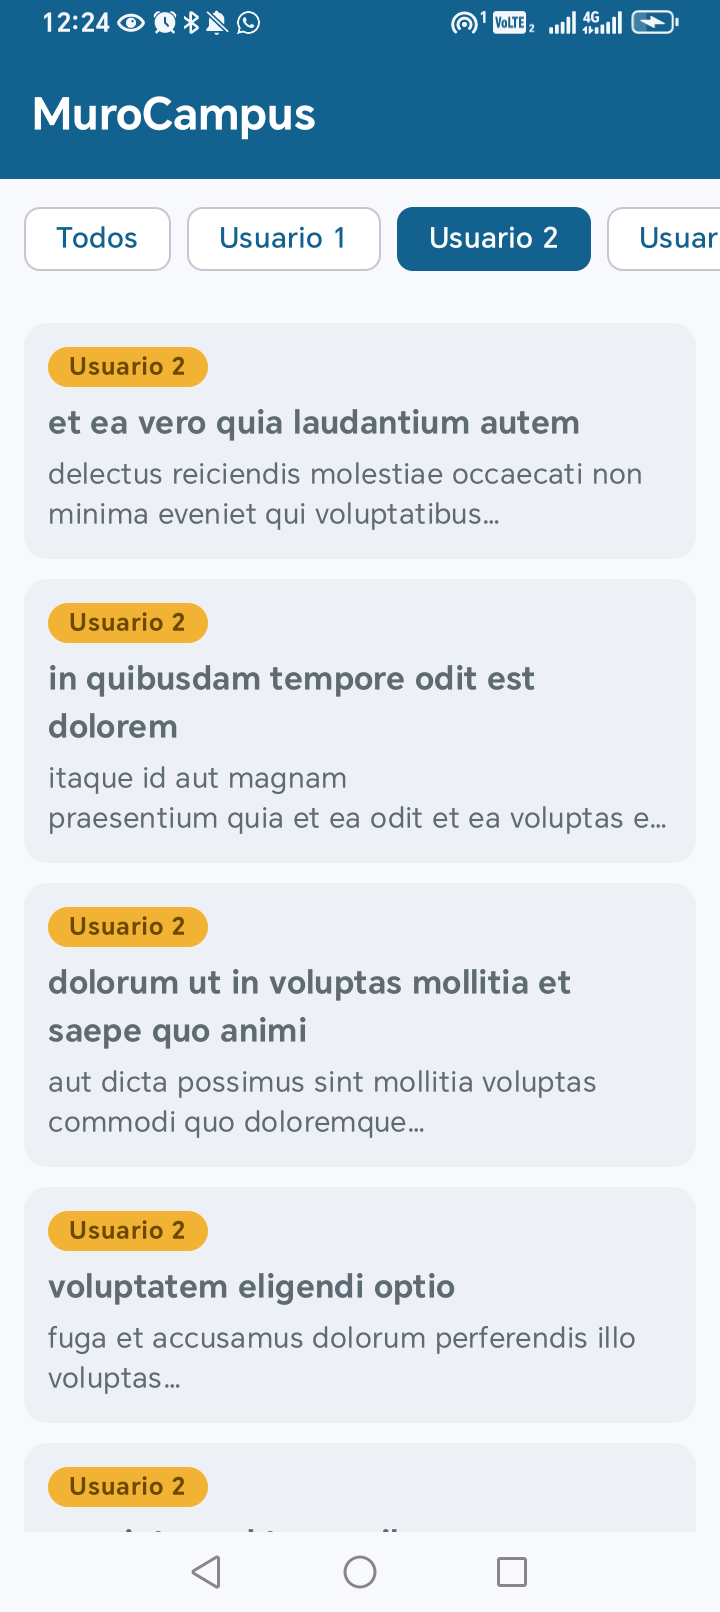
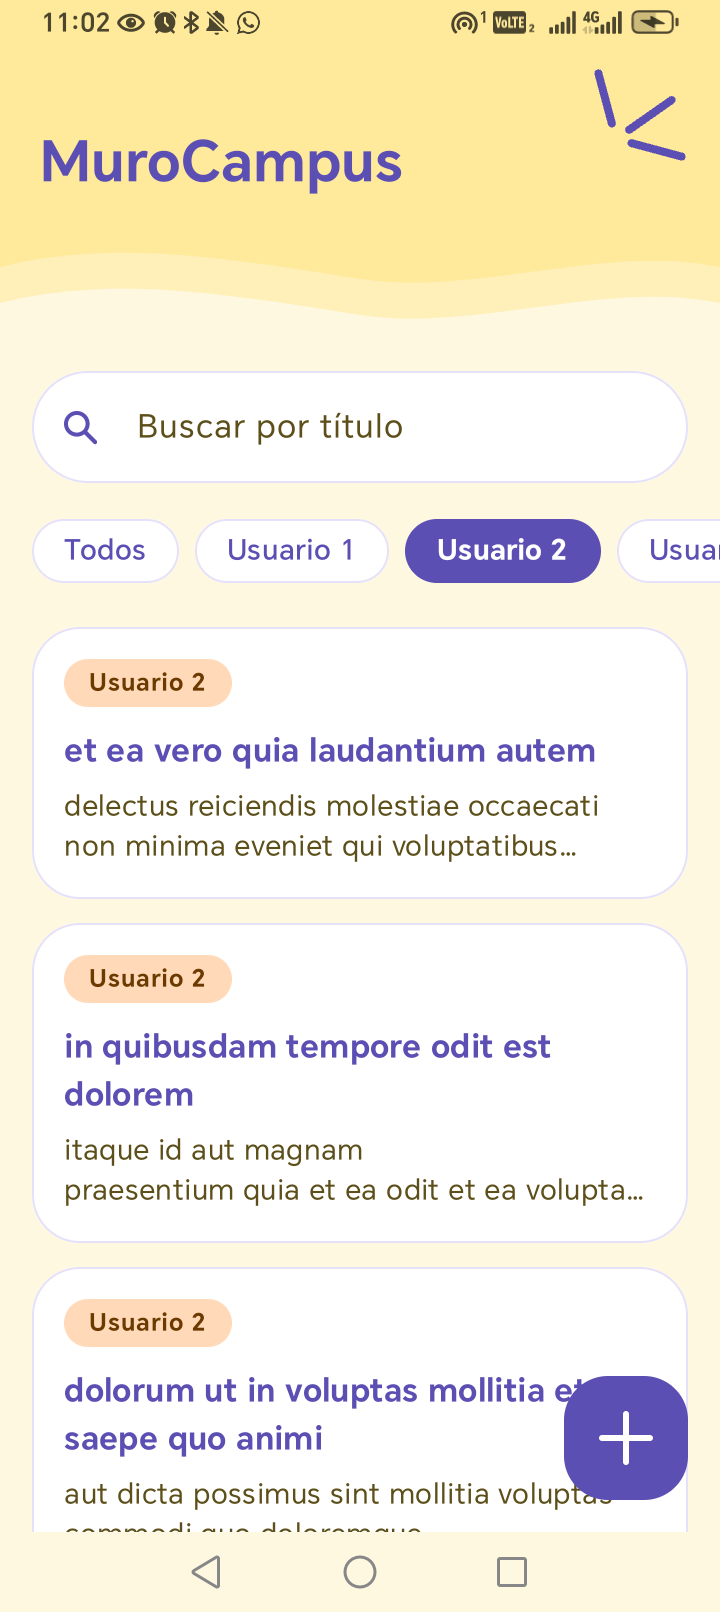
docs: actualiza README con las mejoras de la Fase 2
- Cabecera y descripción de la rama con-ia: agrega borrar, búsqueda y encabezado Accept a las funcionalidades.
- Nueva sección Mejoras de la Fase 2 con tabla de mejora, capas que cambian y commit, más el detalle de cada una.
- Explica el borrado con @DELETE y Response<Unit>, la revisión de isSuccessful en el Repository, el filterNot en memoria y el diálogo de confirmación.
- Explica la búsqueda con busqueda, listaVisible y combine, el filtro por título sin volver a llamar a la API y el contador de coincidencias.
- Explica el EncabezadoInterceptor, su registro antes del HttpLoggingInterceptor y que solo cambia RetrofitClient.
- Actualiza la estructura de paquetes con MuroCampusApp, EncabezadoInterceptor, theme/Shape y PROMPTS.md.
- Actualiza el diagrama MVVM + Repository con los eventos buscar y eliminar y con listaVisible como combinación de lista y búsqueda.
- Separa las pruebas del dispositivo en Fase 2 (búsqueda, borrado, error sin conexión, interceptor) y Fase 1.
- Agrega tres preguntas nuevas de Para pensar de la Fase 2 y conserva las seis de la Fase 1.
- Reemplaza las capturas 01 a 05 por la interfaz rediseñada y agrega 06-buscar, 07-eliminar y 08-error-eliminar.
- Solo documentación: no cambia código de la app.

diff --git a/Semana09/MuroCampus/README.md b/Semana09/MuroCampus/README.md
@@ -1,24 +1,78 @@
-# MuroCampus
+# MuroCampus — Fase 2
 
 **Nombre:** Noemi De la Cruz
 **Curso:** Programación en Móviles — Semana 09
-**Rama de trabajo:** `sin-ia` (Fase 1, sin IA)
+**Rama de trabajo:** `con-ia` (Fase 2, con IA) 
 **Paquete:** `com.delacruz.murocampus`
 
 ## Descripción
 
 MuroCampus es una aplicación Android hecha con Jetpack Compose que consume la API REST de
-[JSONPlaceholder](https://jsonplaceholder.typicode.com/). Muestra un muro de publicaciones,
-permite abrir el detalle con sus comentarios, filtrar por usuario y crear una publicación nueva.
-También muestra estados claros de **Cargando**, **Éxito** y **Error** cuando no hay internet.
+[JSONPlaceholder](https://jsonplaceholder.typicode.com/). Muestra un muro de publicaciones, permite
+abrir el detalle con sus comentarios, filtrar por usuario, crear una publicación nueva y, a partir de
+la Fase 2, **borrar** una publicación y **buscar** por título. Todas las peticiones llevan el
+encabezado `Accept: application/json` gracias a un interceptor de OkHttp.
 
 Funcionalidades:
 
-- Lista de las 100 publicaciones (`GET posts`), con etiqueta de usuario, título y resumen a dos líneas.
+- Lista de las 100 publicaciones (`GET posts`) con etiqueta de usuario, título y resumen a dos líneas.
 - Detalle de una publicación con sus 5 comentarios (`GET posts/{id}` y `GET posts/{id}/comments`).
 - Filtro por usuario con chips: Todos y Usuario 1 a Usuario 10 (`GET posts?userId=N`).
 - Crear publicación (`POST posts` con `@Body`) y mensaje con el id devuelto por el servidor.
-- Manejo de errores de red con mensaje y botón **Reintentar**.
+- **Eliminar publicación** desde el detalle (`DELETE posts/{id}`), con diálogo de confirmación.
+- **Buscador** que filtra por título las publicaciones ya descargadas, sin volver a llamar a la API.
+- **Encabezado `Accept: application/json`** en todas las peticiones mediante un interceptor de OkHttp.
+- Estados claros de **Cargando**, **Éxito** y **Error** con botón **Reintentar**, también en el borrado.
+
+## Mejoras de la Fase 2
+
+| # | Mejora | Qué hace | Capas que cambian | Commit |
+|---|---|---|---|---|
+| 1 | Borrar publicación | `@DELETE("posts/{id}")` con `Response<Unit>` y revisión del código HTTP | API + Repository + ViewModel + View | `5ec8d61` |
+| 2 | Búsqueda | Campo que filtra por título lo ya descargado | ViewModel + View | `affb931` |
+| 3 | Encabezado con interceptor | `Accept: application/json` en todas las peticiones | RetrofitClient | `9b80293` |
+
+Además, aparte de las mejoras, la rama incluye el rediseño visual (`420874b`): cabecera de olas,
+paleta morada y amarilla, tarjetas de 24 dp e íconos dibujados con `Canvas`. No cuenta como una de las
+mejoras de la tabla, pero cambia la presentación de todas las pantallas.
+
+### 1. Borrar publicación
+
+- `PostApi.kt`: `@DELETE("posts/{id}") suspend fun eliminar(@Path("id") id: Int): Response<Unit>`.
+  Devuelve la respuesta completa para poder revisar el código.
+- `PostRepository.kt`: `eliminar(id): Result<Unit>` en la interface. `PostRepositoryRemote` comprueba
+  `respuesta.isSuccessful` y, si el servidor contesta algo distinto de 2xx, lanza `HttpException` para
+  que el fallo llegue al ViewModel como `Result.failure`.
+- `PostsViewModel.kt`: `eliminacion: StateFlow<UiState<Unit>?>` y `eliminar(id)`. Al confirmar el
+  servidor, quita la publicación de `_lista` con `filterNot` y deja el estado en `Exito`.
+- `PantallaDetalle.kt`: botón **Eliminar** con borde rojo, `AlertDialog` de confirmación que indica el
+  `DELETE` de esa publicación, indicador de progreso mientras borra y recuadro rosa con el mensaje de
+  error. La pantalla solo envía `onEliminar(id)`.
+- `MuroCampusApp.kt`: con `LaunchedEffect` vuelve al muro cuando la eliminación termina en `Exito` y
+  limpia el estado al abrir o cerrar el detalle.
+- **Limitación:** JSONPlaceholder responde 200 pero no guarda el borrado, por eso la publicación sale
+  solo de la lista en memoria hasta que se recarga el muro.
+
+### 2. Búsqueda
+
+- `PostsViewModel.kt`: `busqueda: StateFlow<String>` con `buscar(texto)` y una lista derivada
+  `listaVisible = combine(_lista, _busqueda) { estado, texto -> estado.conBusqueda(texto) }.stateIn(...)`.
+- El filtro es una extensión privada sobre `UiState<List<Post>>`: si el estado es `Exito` y el texto no
+  está vacío, se queda con las publicaciones cuyo `title` contiene el texto con `ignoreCase = true`.
+  Se aplica sobre lo ya descargado, sin una llamada nueva a la API y combinándose con el chip de usuario.
+- `PantallaLista.kt`: campo de búsqueda tipo píldora debajo de la cabecera, con lupa, aspa para vaciar y
+  acción *Search* en el teclado. Mientras hay texto muestra **N coincidencias** y, si no hay ninguna,
+  el aviso *Sin resultados para “texto”*. `imePadding` evita que el teclado tape los resultados.
+- El texto vive en el ViewModel, así que se conserva al abrir un detalle y volver.
+
+### 3. Encabezado con interceptor
+
+- `data/remote/EncabezadoInterceptor.kt`: implementa `okhttp3.Interceptor` y copia la petición con
+  `header("Accept", "application/json")`, que reemplaza el encabezado si ya existía en vez de duplicarlo.
+- `RetrofitClient.kt`: se registra **antes** del `HttpLoggingInterceptor`, así el encabezado aparece en el
+  registro de OkHttp de Logcat y viaja en todas las llamadas de `PostApi`.
+- No cambia ninguna firma: `PostApi`, `PostRepository`, ViewModel y pantallas quedan igual. Es la mejora
+  de la tabla que toca una sola capa.
 
 ## Tecnologías
 
@@ -26,51 +80,57 @@ Funcionalidades:
 |---|---|
 | Kotlin + Jetpack Compose (Material 3) | Interfaz de usuario |
 | MVVM + Repository | Arquitectura y separación de capas |
-| Retrofit 2.11.0 | Llamadas HTTP con anotaciones `@GET`, `@POST`, `@Path`, `@Query` y `@Body` |
-| OkHttp 4.12.0 + Logging Interceptor | Conexión y registro del tráfico en Logcat |
+| Retrofit 2.11.0 | `@GET`, `@POST`, `@DELETE`, `@Path`, `@Query` y `@Body` |
+| OkHttp 4.12.0 | Conexión, registro en Logcat e **interceptor** del encabezado `Accept` |
 | kotlinx.serialization | Conversión del JSON a `data class` |
-| Corrutinas, `StateFlow` y `Result` | Trabajo asíncrono y manejo de errores |
+| Corrutinas, `StateFlow`, `combine` y `Result` | Trabajo asíncrono, estados y búsqueda |
+
+Sin dependencias nuevas: los íconos y la cabecera se dibujan con `Canvas` y el interceptor usa el
+OkHttp que ya estaba en el proyecto.
 
 ## Estructura de paquetes
 
 ```
 com.delacruz.murocampus/
-├── MainActivity.kt              Contenedor: barra MuroCampus y navegación lista/detalle/crear
+├── MainActivity.kt                  Repository + ViewModel + setContent
 ├── model/
-│   └── Modelos.kt               Post, Comentario, NuevoPost y Usuario
+│   └── Modelos.kt                   Post, Comentario, NuevoPost y Usuario
 ├── data/
-│   ├── PostRepository.kt        Interface + PostRepositoryRemote (devuelve Result)
+│   ├── PostRepository.kt            Interface + PostRepositoryRemote (Result; revisa el DELETE)
 │   └── remote/
-│       ├── PostApi.kt           Interface de Retrofit
-│       └── RetrofitClient.kt    Retrofit + OkHttp + conversor JSON
+│       ├── PostApi.kt               Interface de Retrofit (@GET, @POST, @DELETE)
+│       ├── EncabezadoInterceptor.kt Accept: application/json en todas las peticiones
+│       └── RetrofitClient.kt        Retrofit + OkHttp + interceptor + conversor JSON
 ├── viewmodel/
-│   ├── PostsViewModel.kt        Estado de lista, detalle, filtro y creación
-│   ├── PostsViewModelFactory.kt Crea el ViewModel con el Repository
-│   └── UiState.kt               Cargando / Éxito / Error y mensajeDe()
+│   ├── PostsViewModel.kt            Lista, búsqueda, detalle, creación y eliminación
+│   ├── PostsViewModelFactory.kt     Crea el ViewModel con el Repository
+│   └── UiState.kt                   Cargando / Éxito / Error y mensajeDe()
 └── ui/
-    ├── Componentes.kt           TarjetaPost, Cargando y ErrorConReintento
-    ├── PantallaLista.kt         Chips de filtro y LazyColumn de publicaciones
-    ├── PantallaDetalle.kt       Publicación completa y comentarios
-    ├── PantallaCrear.kt         Formulario de creación
-    └── theme/                   Colores, tema y tipografía
+    ├── MuroCampusApp.kt             Scaffold, navegación, botón + y BackHandler
+    ├── Componentes.kt               CabeceraMuro, tarjetas, estados e íconos Canvas
+    ├── PantallaLista.kt             Buscador, chips y LazyColumn
+    ├── PantallaDetalle.kt           Publicación, Eliminar y comentarios
+    ├── PantallaCrear.kt             Formulario de creación
+    └── theme/                       Color.kt, Shape.kt, Type.kt y Theme.kt
 ```
 
 ## Arquitectura MVVM + Repository
 
 ```
 View (PantallaLista, PantallaDetalle, PantallaCrear)
-  |  eventos: cargar, filtrar, abrir, publicar
+  |  eventos: cargar, filtrar, buscar, abrir, crear, eliminar
   v
 ViewModel (PostsViewModel)  --->  StateFlow<UiState> (Cargando / Éxito / Error)
+  |                             listaVisible = combine(lista, busqueda)
   |  viewModelScope.launch
   v
 PostRepository (interface)  <--- devuelve Result<...>
   |
   v
-PostRepositoryRemote  (captura IOException, HttpException, SerializationException)
+PostRepositoryRemote  (revisa el código del DELETE y captura IOException, HttpException, SerializationException)
   |
   v
-PostApi (Retrofit) --- OkHttp ---> https://jsonplaceholder.typicode.com/
+PostApi (Retrofit) --- OkHttp + EncabezadoInterceptor ---> https://jsonplaceholder.typicode.com/
 ```
 
 Reglas respetadas:
@@ -78,23 +138,40 @@ Reglas respetadas:
 - La pantalla nunca llama a Retrofit: solo recibe el estado y envía eventos al ViewModel.
 - El ViewModel no conoce Retrofit, `PostApi`, `HttpException` ni `Context`.
 - El Repository nunca deja escapar una excepción: devuelve `Result.success` o `Result.failure`.
+- El filtrado de la búsqueda y la lista que se muestra se calculan en el ViewModel, no en el Composable.
 - La cancelación de la corrutina se relanza con `catch (e: CancellationException) { throw e }`.
 
-## Capturas
+# Capturas
 
-| Lista | Detalle |
+| Lista con buscador | Detalle con Eliminar | Filtro por usuario |
+|---|---|---|
+| ![Lista de publicaciones](docs/capturas/01-lista.png) | ![Detalle con comentarios](docs/capturas/02-detalle.png) | ![Filtro Usuario 2](docs/capturas/03-filtro.png) |
+
+| Crear publicación | Sin conexión | Búsqueda |
+|---|---|---|
+| ![Formulario de creación](docs/capturas/04-crear.png) | ![Error de conexión con Reintentar](docs/capturas/05-error.png) | ![Buscar odio: 6 coincidencias](docs/capturas/06-buscar.png) |
+
+| Confirmación de borrado | Error al eliminar | |
+|---|---|---|
+| ![Diálogo Eliminar publicación](docs/capturas/07-eliminar.png) | ![Aviso sin conexión al borrar](docs/capturas/08-error-eliminar.png) | |
+
+## Pruebas realizadas
+
+Fase 2:
+
+| Prueba | Resultado |
 |---|---|
-| ![Lista de publicaciones](docs/capturas/01-lista.png) | ![Detalle con comentarios](docs/capturas/02-detalle.png) |
+| Buscar `odio` con Todos | 6 coincidencias (5, 16, 54, 68, 77 y 83) |
+| Buscar `odio` con Usuario 1 | 1 coincidencia |
+| Buscar `zzz` | Aviso *Sin resultados para “zzz”* |
+| Tocar la X del buscador | Vuelve a las 100 publicaciones y desaparece el contador |
+| Abrir un resultado y volver | El texto y los resultados se conservan |
+| Eliminar y confirmar | Vuelve al muro y la publicación desaparece de la lista |
+| Eliminar en modo avión | Se queda en el detalle con *Sin conexión a internet* |
+| Reintentar el borrado con red | Borra y vuelve al muro |
+| Interceptor activo | Carga lista, detalle, comentarios y creación sin errores |
 
-| Filtro por usuario | Crear publicación |
-|---|---|
-| ![Filtro Usuario 2](docs/capturas/03-filtro.png) | ![Publicado con id 101](docs/capturas/04-crear.png) |
-
-| Sin conexión |
-|---|
-| ![Error de conexión con Reintentar](docs/capturas/05-error.png) |
-
-## Pruebas realizadas en el dispositivo
+Fase 1 (siguen funcionando):
 
 | Prueba | Resultado |
 |---|---|
@@ -103,15 +180,33 @@ Reglas respetadas:
 | Desactivar modo avión y pulsar Reintentar | Vuelve a cargar la lista |
 | Abrir una publicación | Detalle completo con 5 comentarios |
 | Botón Atrás desde el detalle | Vuelve a la lista sin recargarla |
-| Modo avión en el detalle | Error con Reintentar; al reintentar carga el detalle |
-| Elegir Usuario 2 | Solo publicaciones del usuario 2 |
-| Elegir Todos | Vuelven las 100 publicaciones |
-| Pedir una publicación inexistente | Error del servidor (404) con Reintentar |
 | Rotar la pantalla | Conserva el estado, no descarga de cero |
 | Campos vacíos en Crear | El botón Publicar está deshabilitado |
 | Publicar | Mensaje Publicado con id 101 y formulario limpio |
 
-## Para pensar
+## Para pensar (Fase 2)
+
+**1. ¿Por qué la revisión del código HTTP del `DELETE` va en el Repository y no en el ViewModel?**
+
+Porque el ViewModel solo debe decidir estados, no conocer el protocolo. `PostRepositoryRemote` recibe
+`Response<Unit>` de Retrofit, revisa `isSuccessful` y convierte un 4xx o 5xx en `Result.failure`, igual
+que hace con cualquier `IOException`. Así el ViewModel sigue viendo solo `Result<Unit>` y no aparece
+`HttpException` fuera de la capa de datos.
+
+**2. ¿Por qué el texto del buscador y el filtrado viven en el ViewModel?**
+
+Porque filtrar es lógica, no dibujo. Con `combine` + `stateIn` la pantalla recibe la lista ya filtrada y
+solo la dibuja; el texto sobrevive a la rotación y a entrar al detalle y volver, y el filtro se combina
+solo con el chip de usuario. Si el filtrado estuviera en el Composable con `remember`, se perdería al
+salir de la pantalla y habría lógica de negocio en la vista.
+
+**3. ¿Por qué un interceptor en lugar de escribir el encabezado en cada método de `PostApi`?**
+
+Porque el encabezado debe ser igual en todas las peticiones y un interceptor lo agrega en un solo lugar,
+sin repetirlo en cinco métodos ni olvidarlo cuando se agregue uno nuevo. Además se registra en el
+`RetrofitClient`, que es la única capa que la tabla de la Fase 2 pide cambiar.
+
+## Para pensar (Fase 1)
 
 **1. ¿Qué diferencia hay entre GET y POST? ¿Por qué crear lleva `@Body` y porUsuario lleva `@Query`?**
 
@@ -132,34 +227,36 @@ camino de la URL base y la petición quedaría mal formada. Con `"posts"` el res
 
 Porque así ninguna excepción de red atraviesa las capas. El Repository captura `IOException`,
 `HttpException`, `SerializationException`, etc. y las convierte en `Result.failure`. El ViewModel
-decide el `UiState` sin conocer Retrofit y la app no se cierra. Además permite cambiar la fuente de
-datos (por ejemplo una base de datos local) sin tocar el ViewModel ni la pantalla.
+decide el `UiState` sin conocer Retrofit y la app no se cierra.
 
-**4. ¿Qué pasa si olvidas el permiso INTERNET? ¿Y si olvidas `ignoreUnknownKeys` y el servidor agrega un campo nuevo?**
+**4. ¿Qué pasa si olvidas el permiso INTERNET? ¿Y si olvidas `ignoreUnknownKeys`?**
 
 Sin el permiso `INTERNET` la app compila, pero OkHttp no puede abrir conexiones: la llamada falla y se
 ve el mensaje de error de red aunque el teléfono tenga internet. Sin `ignoreUnknownKeys`, cuando el
 servidor agrega un campo que no existe en la `data class`, kotlinx.serialization lanza
-`SerializationException` y la pantalla muestra "Respuesta inesperada". Con `ignoreUnknownKeys = true`
-los campos desconocidos se ignoran y la app sigue funcionando.
+`SerializationException` y la pantalla muestra "Respuesta inesperada".
 
 **5. ¿Por qué la pantalla de lista usa un `when` sobre `UiState` y no un `if` con tres variables?**
 
 Porque `UiState` es una interface sellada: el compilador obliga a cubrir los tres casos y no permite
-estados imposibles, como estar cargando y con error al mismo tiempo. Con tres booleanos sí se pueden
-dar combinaciones inválidas y hay que revisarlas a mano. Además el estado vive en el ViewModel, así
-que sobrevive a la rotación de la pantalla.
+estados imposibles, como estar cargando y con error al mismo tiempo. Además el estado vive en el
+ViewModel, así que sobrevive a la rotación de la pantalla.
 
 **6. JSONPlaceholder no guarda los POST. ¿Cómo cambiaría tu app si usaras un servicio real?**
 
 Con un servicio real el `POST` sí persistiría: el id devuelto sería definitivo y la publicación
-aparecería al recargar la lista. Convendría insertar la respuesta en la lista sin volver a descargar
-todo, manejar autenticación con token, validar errores del servidor (400, 401, 409) y quizá refrescar
-con paginación. El resto de la arquitectura no cambiaría: solo se adaptaría el Repository.
+aparecería al recargar la lista. Lo mismo pasaría con el `DELETE`: no haría falta quitarlo de la lista
+en memoria. Convendría manejar autenticación con token, validar errores del servidor (400, 401, 409) y
+refrescar con paginación. El resto de la arquitectura no cambiaría: solo se adaptaría el Repository.
+
+## Documentación de la IA
+
+Los prompts de la Fase 2, qué respondió la IA, qué se cambió y por qué están en
+[`PROMPTS.md`](PROMPTS.md).
 
 ## Cómo ejecutar
 
 1. Abrir la carpeta `Semana09/MuroCampus` en Android Studio.
 2. Sincronizar Gradle (`Sync Now`).
-3. Ejecutar en un emulador.
+3. Ejecutar en el emulador o en el teléfono.
 4. Comprobar la API en el navegador: <https://jsonplaceholder.typicode.com/posts/1>.
